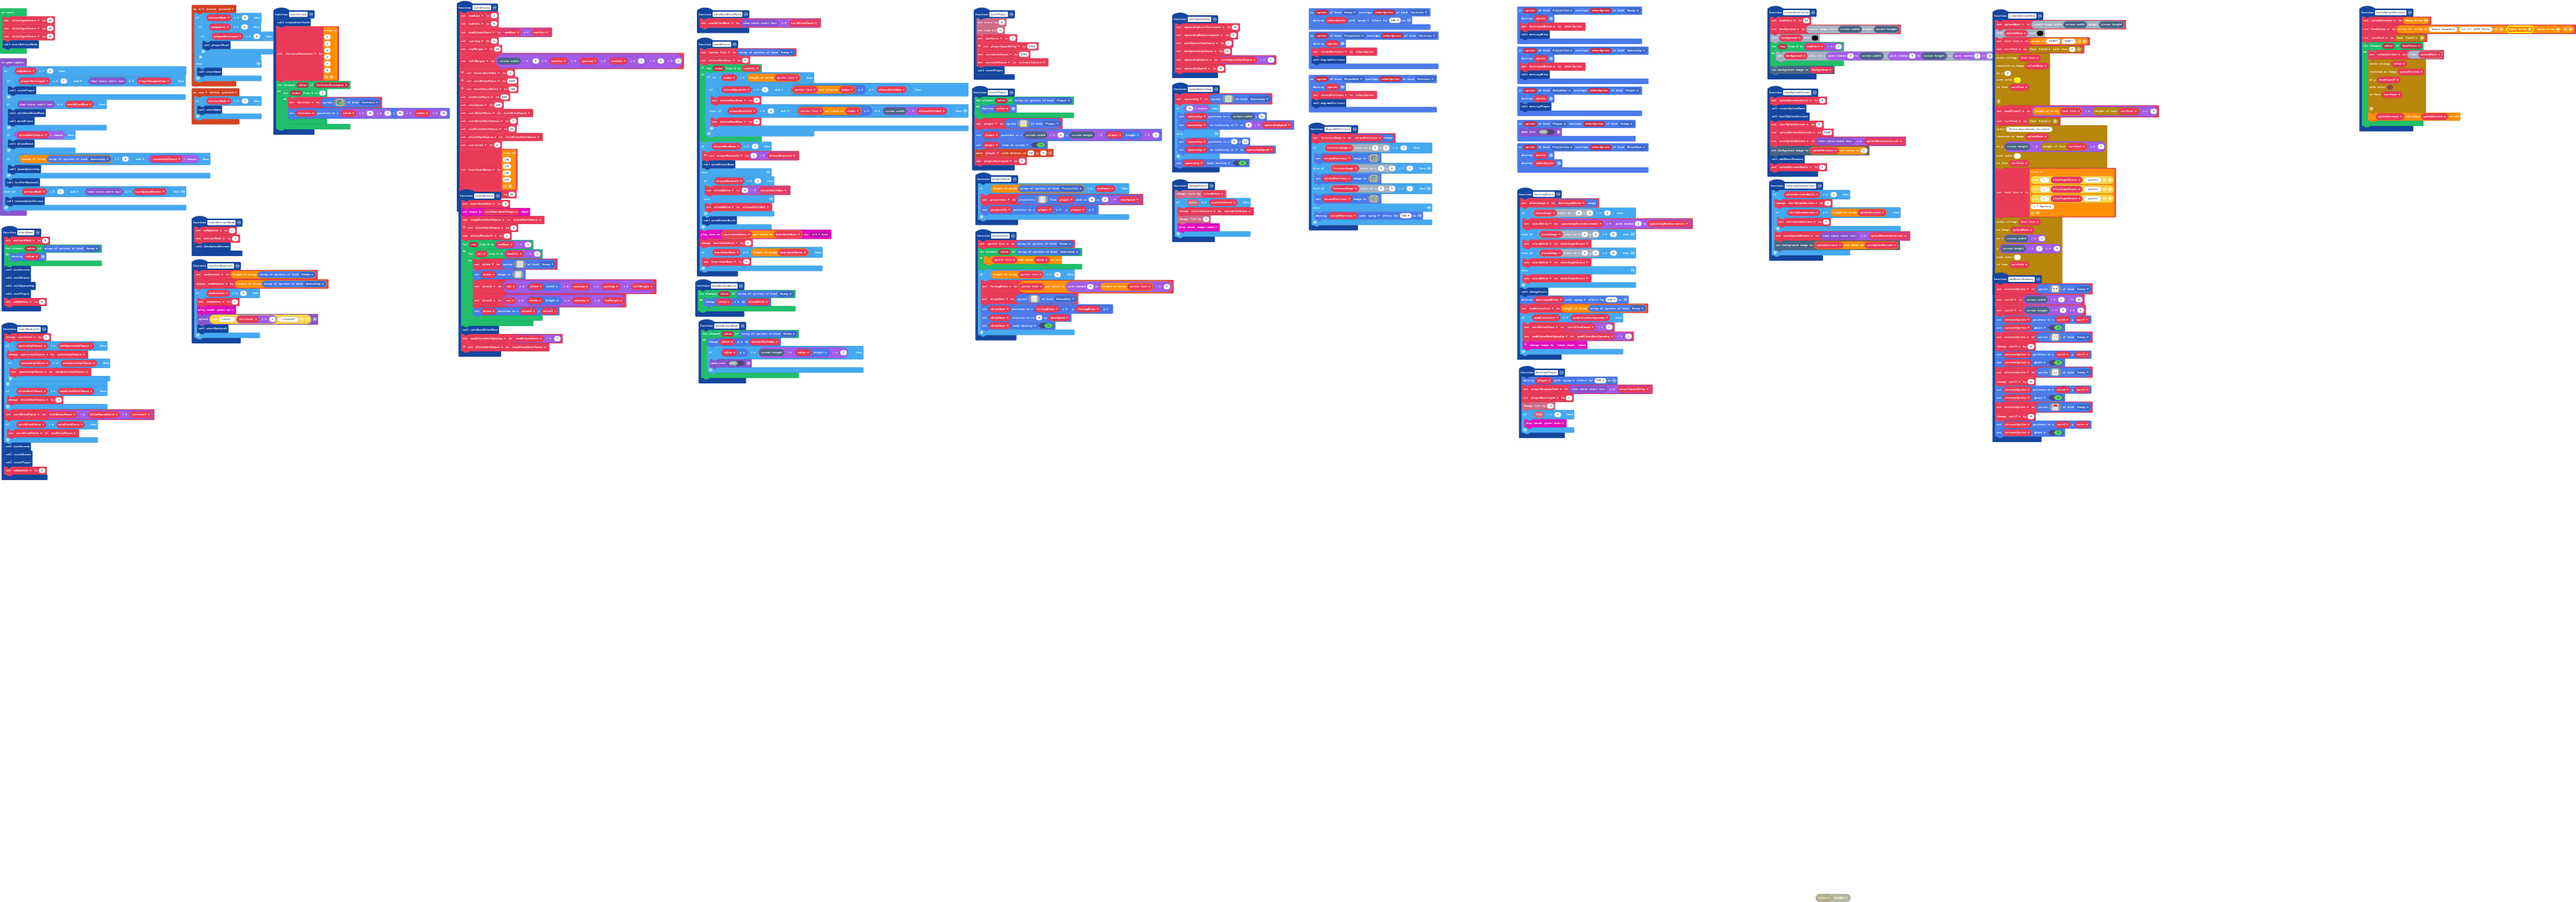
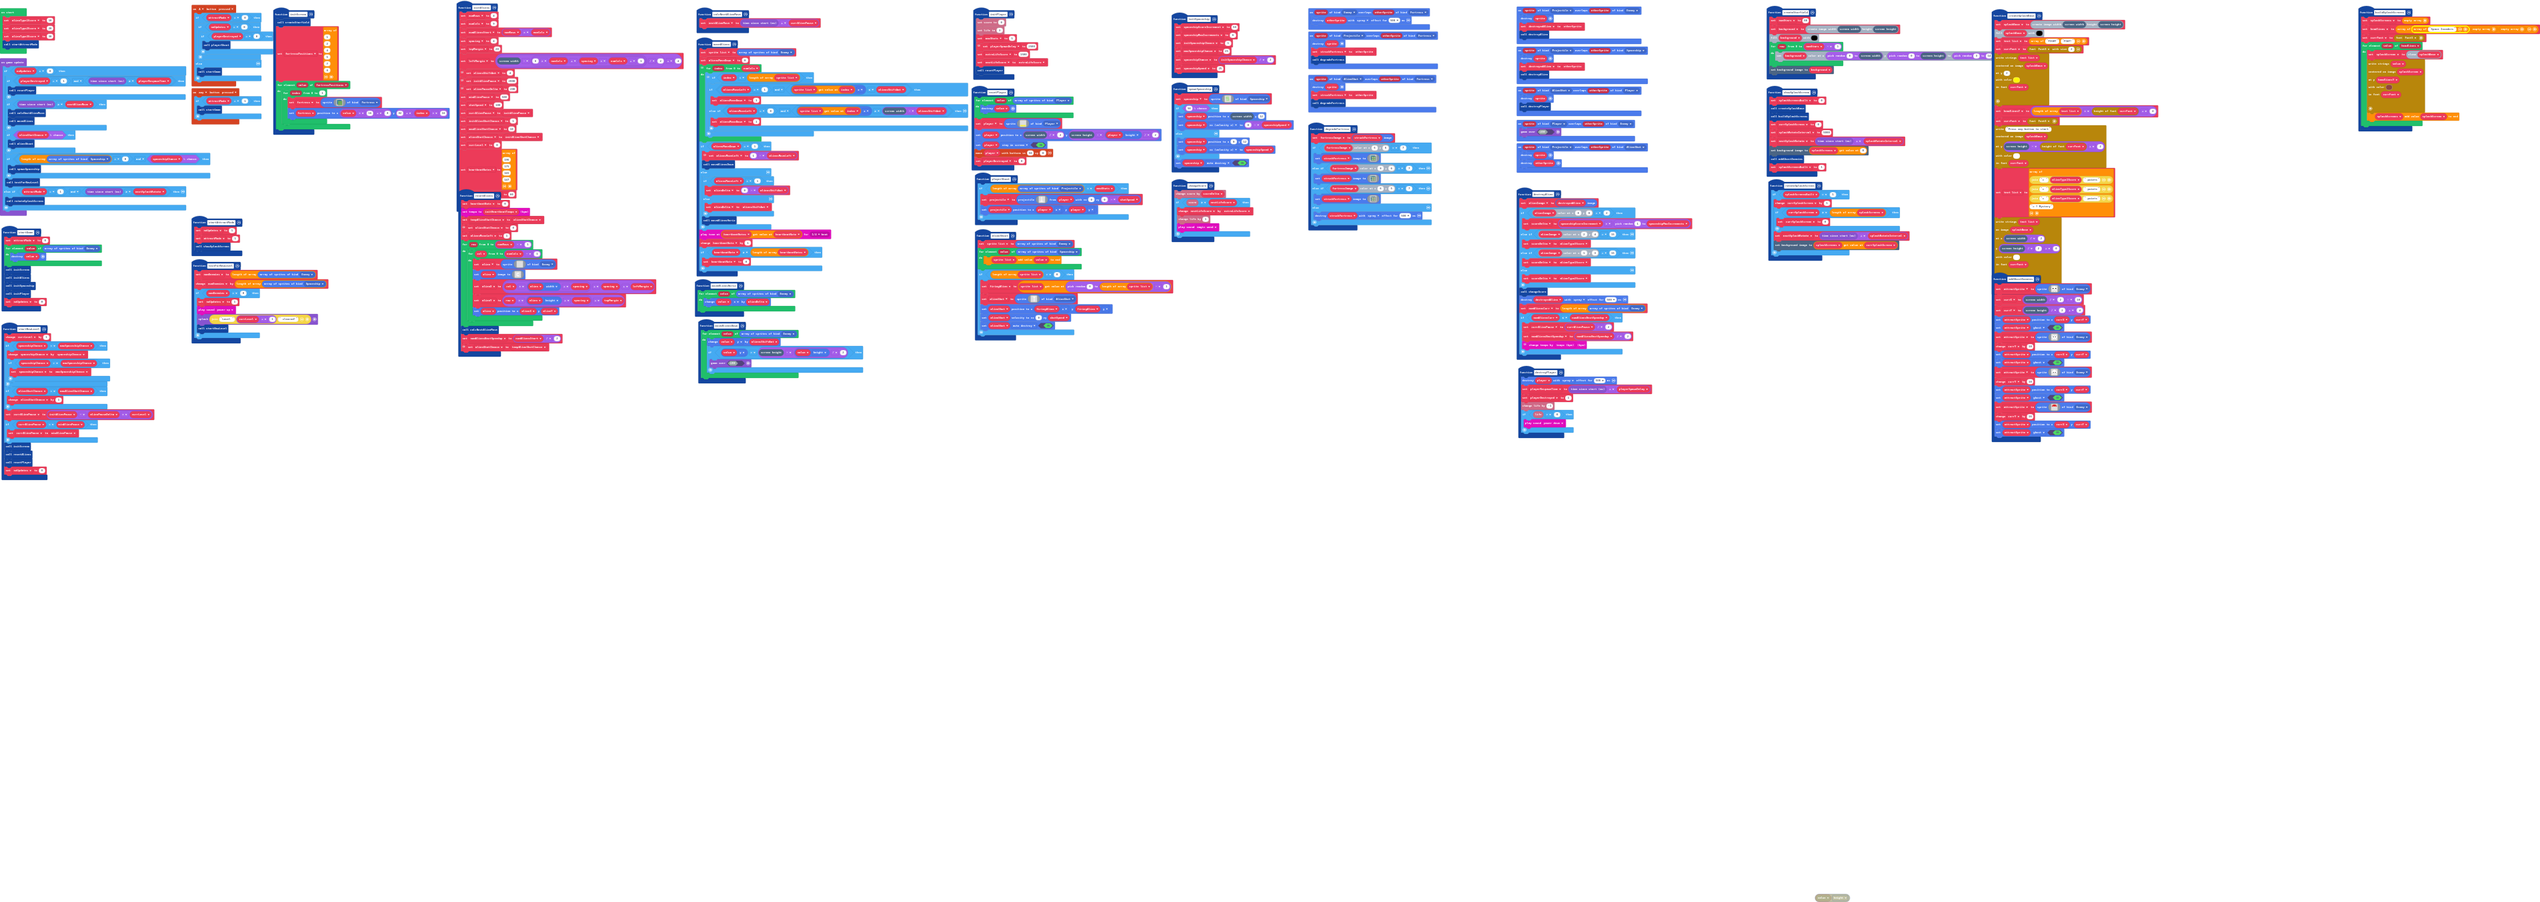
Update main.blocks, main.ts

diff --git a/main.ts b/main.ts
@@ -544,7 +544,7 @@ function initAliens () {
 }
 function buildSplashScreens () {
     splashScreens = []
-    headlines = [["Space Invaders", "is (C) 1978 Taito"], [], []]
+    headlines = [["Space Invaders"], [], []]
     currFont = drawStrings.createFontInfo(FontName.Font5)
     for (let value of headlines) {
         splashScreen = splashBase.clone()
